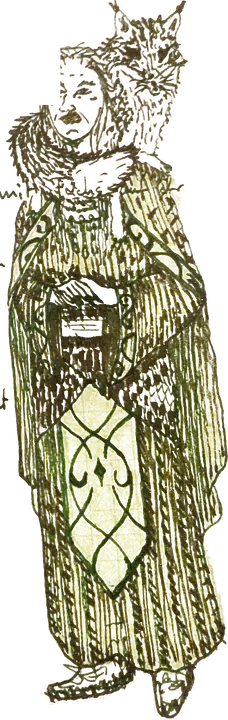
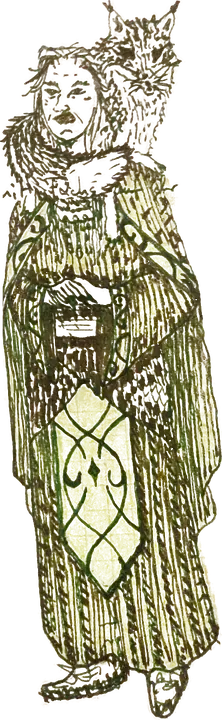
Ilvara-Zeichnung vollständig, neuer Barradin-Text
Claude-Session: https://claude.ai/code/session_015SrhJRt661LnUDDa5DQYkd

diff --git a/inhalt-en.js b/inhalt-en.js
@@ -25,10 +25,10 @@ window.INHALT_EN = {
       bildtext: "Barradin in his element: fire, an audience and a wide grin.",
       fries: "50% 30%",
       absaetze: [
-        "Wherever the elven bard Barradin appears, silence does not last. He sings ballads, whirls flaming torches through the air and turns somersaults until the crowd roars. Nobody knows better than he does how good he is, and he is happy to say so. Yet his confidence is contagious: once Barradin catches fire, he carries the whole party with him.",
-        "His sharpest weapon is his tongue. With mockery and wit he throws his foes off balance, and more than one enemy has quite literally collapsed beneath his verses. That he occasionally trips over his own feet in the heat of battle is all part of his charm.",
-        "Barradin grew up in the house of his father, a zealous member of the <em>Alternative for Elves</em>. Today he has deliberately chosen a different path. At the side of a human, a druid, a Darkin and a dog, he has learned that where someone comes from says nothing about their worth as a companion, and he stands up for that at the top of his voice.",
-        "You will usually find him pipe in hand, wrapped in a cloud of fragrant herb."
+        "Wherever the elven bard Barradin turns up, things do not stay quiet. He sings ballads, whirls burning torches through the air and turns somersaults until the crowd cheers. He knows he is good, and his self-confidence is contagious.",
+        "His sharpest weapon is his tongue. With mockery and wit he throws opponents off balance, and many a foe has quite literally collapsed under his insults. That he, clumsy as ever, sometimes trips over his own feet in the heat of battle is all part of his charm.",
+        "Barradin grew up in the house of his father, a zealous member of the <em>Alternative for Elves</em>. Today he deliberately walks a different path. At the side of a human, a druid, a Darkin and a dog, he has learned that origin says nothing about a companion's worth, and he stands up for that with his full voice.",
+        "You will usually find him pipe in hand, surrounded by a cloud of fragrant herb and with a broad grin on his face."
       ]
     },
     {

diff --git a/inhalt.js b/inhalt.js
@@ -29,10 +29,10 @@ window.INHALT = {
       bildtext: "Barradin in seinem Element: Feuer, Publikum und ein breites Grinsen.",
       fries: "50% 30%",
       absaetze: [
-        "Wo der elfische Barde Barradin auftaucht, wird es nicht leise. Er singt Balladen, wirbelt brennende Fackeln durch die Luft und schlägt Saltos, bis die Menge jubelt. Dass er gut ist, weiß er selbst am besten, und er sagt es auch gern. Sein Selbstbewusstsein ist ansteckend: Hat Barradin erst einmal Feuer gefangen, reißt er die ganze Gruppe mit.",
-        "Seine schärfste Waffe ist seine Zunge. Mit Spott und Witz bringt er Gegner aus der Fassung, und schon so mancher Feind ist unter seinen Versen buchstäblich zusammengebrochen. Dass er im Eifer des Gefechts auch mal über die eigenen Füße stolpert, gehört zu seinem Charme.",
+        "Wo der elfische Barde Barradin auftaucht, wird es nicht leise. Er singt Balladen, wirbelt brennende Fackeln durch die Luft und schlägt Saltos, bis die Menge jubelt. Dass er gut ist, weiß er und sein Selbstbewusstsein ist ansteckend.",
+        "Seine schärfste Waffe ist seine Zunge. Mit Spott und Witz bringt er Gegner aus der Fassung, und schon so mancher Feind ist unter seinen Beschimpfungen buchstäblich zusammengebrochen. Dass er, tollpatschig wie eh und je, im Eifer des Gefechts auch mal über die eigenen Füße stolpert, gehört zu seinem Charme.",
         "Aufgewachsen ist Barradin im Haus seines Vaters, eines eifrigen Mitglieds der <em>Alternative für Elfen</em>. Heute geht er bewusst einen anderen Weg. An der Seite eines Menschen, eines Druiden, eines Darkin und eines Hundes hat er gelernt, dass Herkunft nichts über den Wert eines Gefährten sagt, und dafür steht er mit voller Stimme ein.",
-        "Man findet ihn meist mit seiner Pfeife in der Hand, umgeben von einer Wolke aus duftendem Kraut."
+        "Man findet ihn meist mit seiner Pfeife in der Hand, umgeben von einer Wolke aus duftendem Kraut und einem breiten Grinsen im Gesicht."
       ]
     },
     {
